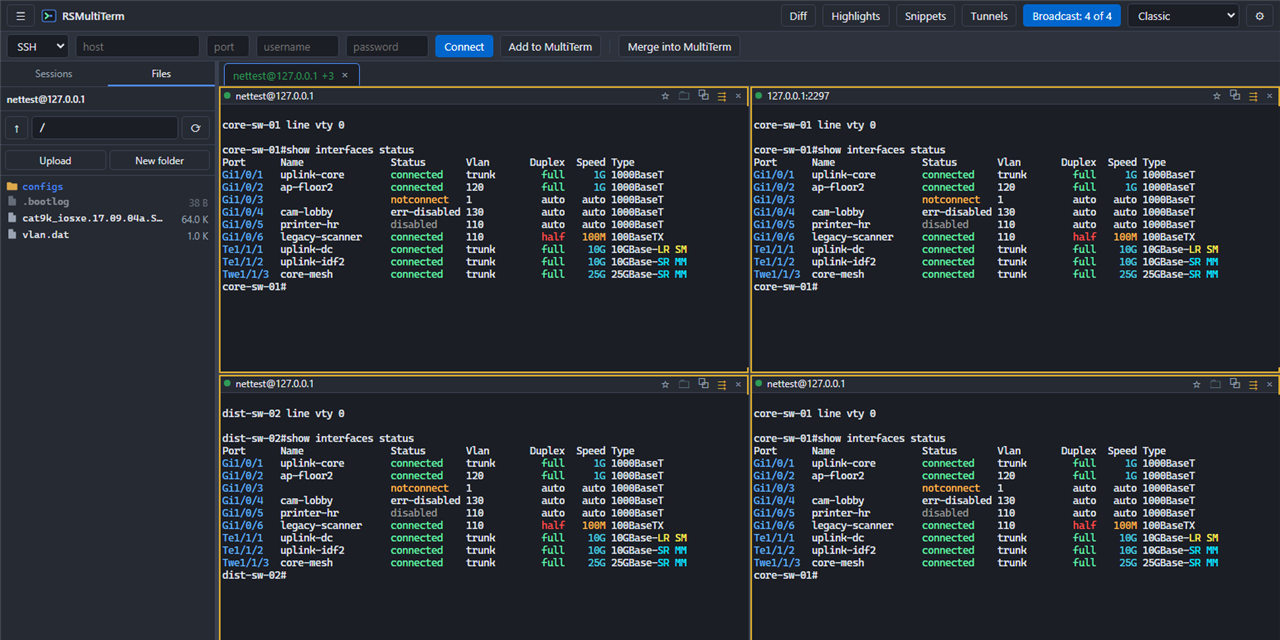
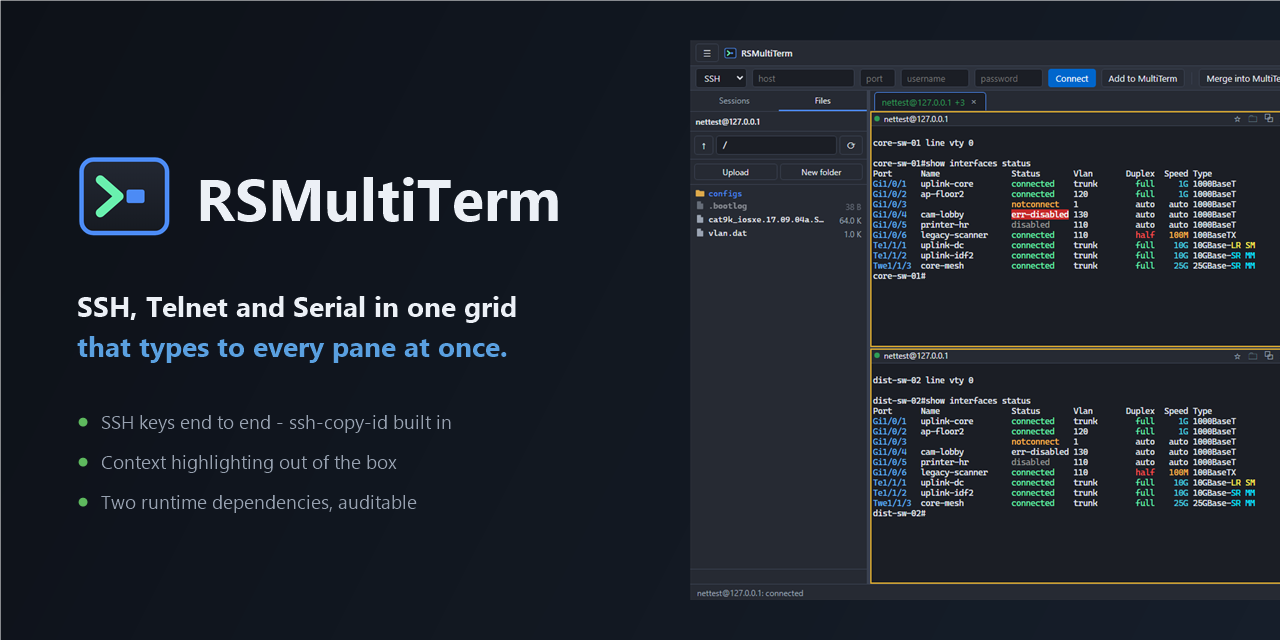
Hero quadrants in four themes; family-style social preview
docs/hero-quadrants.png: edge-to-edge 2x2 in the CrossCanvas mold and
its exact four themes - Classic (broadcast grid, 4 panes), Garnet
(session-tree estate + file browser), Synthwave (command palette),
Ember (ssh-copy-id dialog). Every quadrant is a real capture from the
smoke harness against the fixture estate; the theme picker in each
shot reads the theme it shows. docs/social-preview.png recomposed to
the RSPaster layout: mark + name, white/accent tagline, three bullet
capabilities, the Classic grid bleeding off the right edge, 1280x640.
README hero swapped to the quadrants; the single-grid shot retired.

Changed region(s): [[0.0, 0.0, 1.0, 1.0]]

diff --git a/CHANGELOG.md b/CHANGELOG.md
@@ -2,6 +2,14 @@
 
 ## Unreleased
 
+- **Four-theme hero image and a proper social preview.** The README
+  hero is now a 2x2 quadrant shot - broadcast grid in Classic, the
+  session tree in Garnet, the command palette in Synthwave, and the
+  ssh-copy-id dialog in Ember - matching the CrossCanvas hero's four
+  themes. The social preview follows the family layout: mark, name,
+  tagline, and the app bleeding off the right edge. Both shot from the
+  live app against the fixture estate.
+
 ## 0.1.0 - 2026-08-20
 
 The initial public release.

diff --git a/README.md b/README.md
@@ -5,7 +5,7 @@ SSH, Telnet, and Serial in a dynamic N-pane grid, with context highlighting,
 multi-exec broadcast, an SFTP file browser, SSH key management with in-app
 ssh-copy-id, and session sync that keeps credentials out of shared files.
 
-![A four-pane broadcast grid against two fixture switches](docs/screenshot-grid.png)
+![Four themes, four features: a broadcast grid in Classic, the session tree in Garnet, the command palette in Synthwave, and in-app ssh-copy-id in Ember](docs/hero-quadrants.png)
 
 ## Why it exists
 
